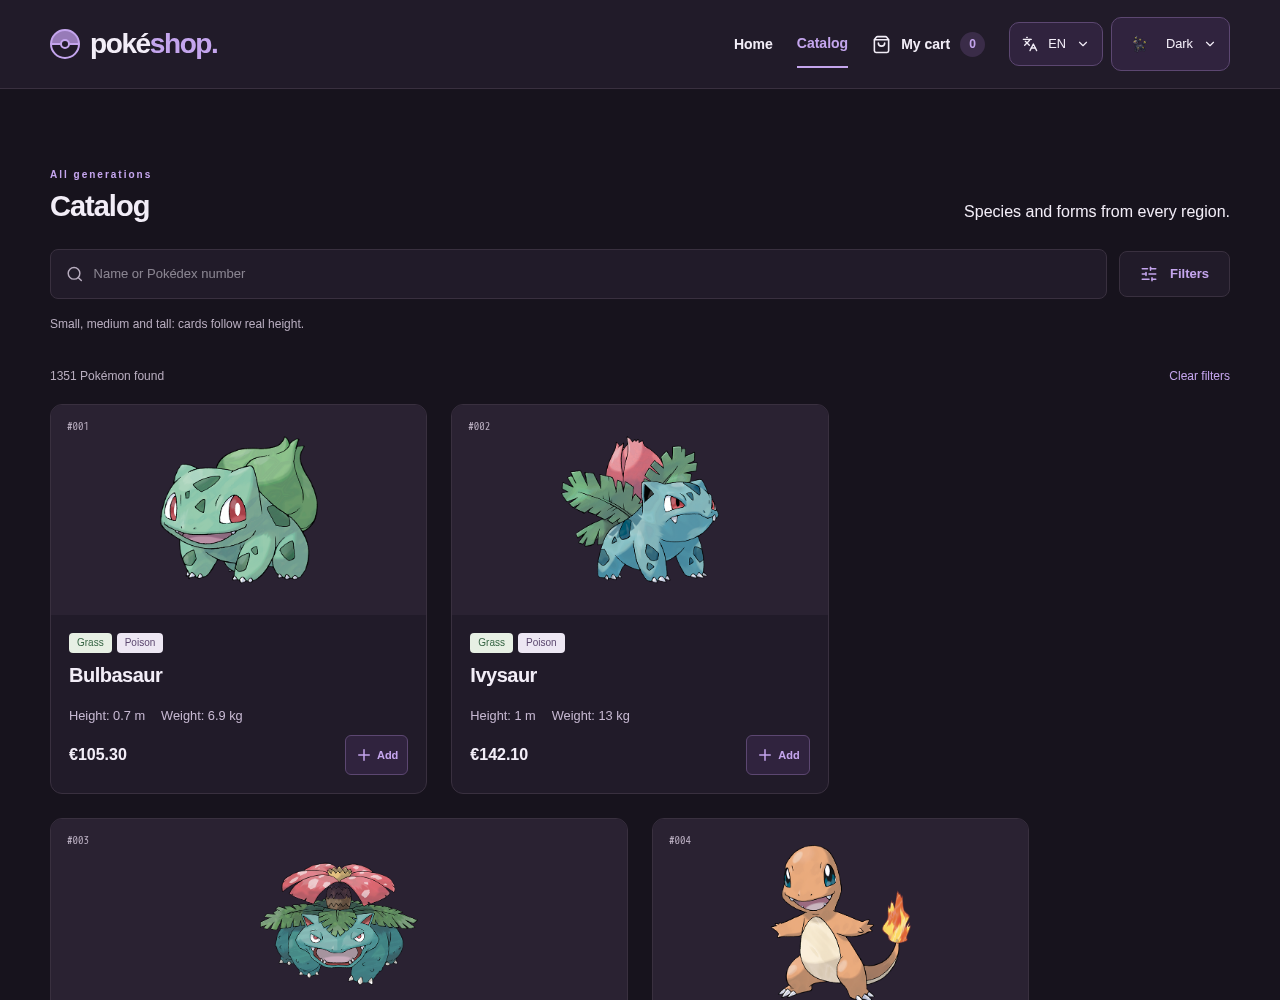
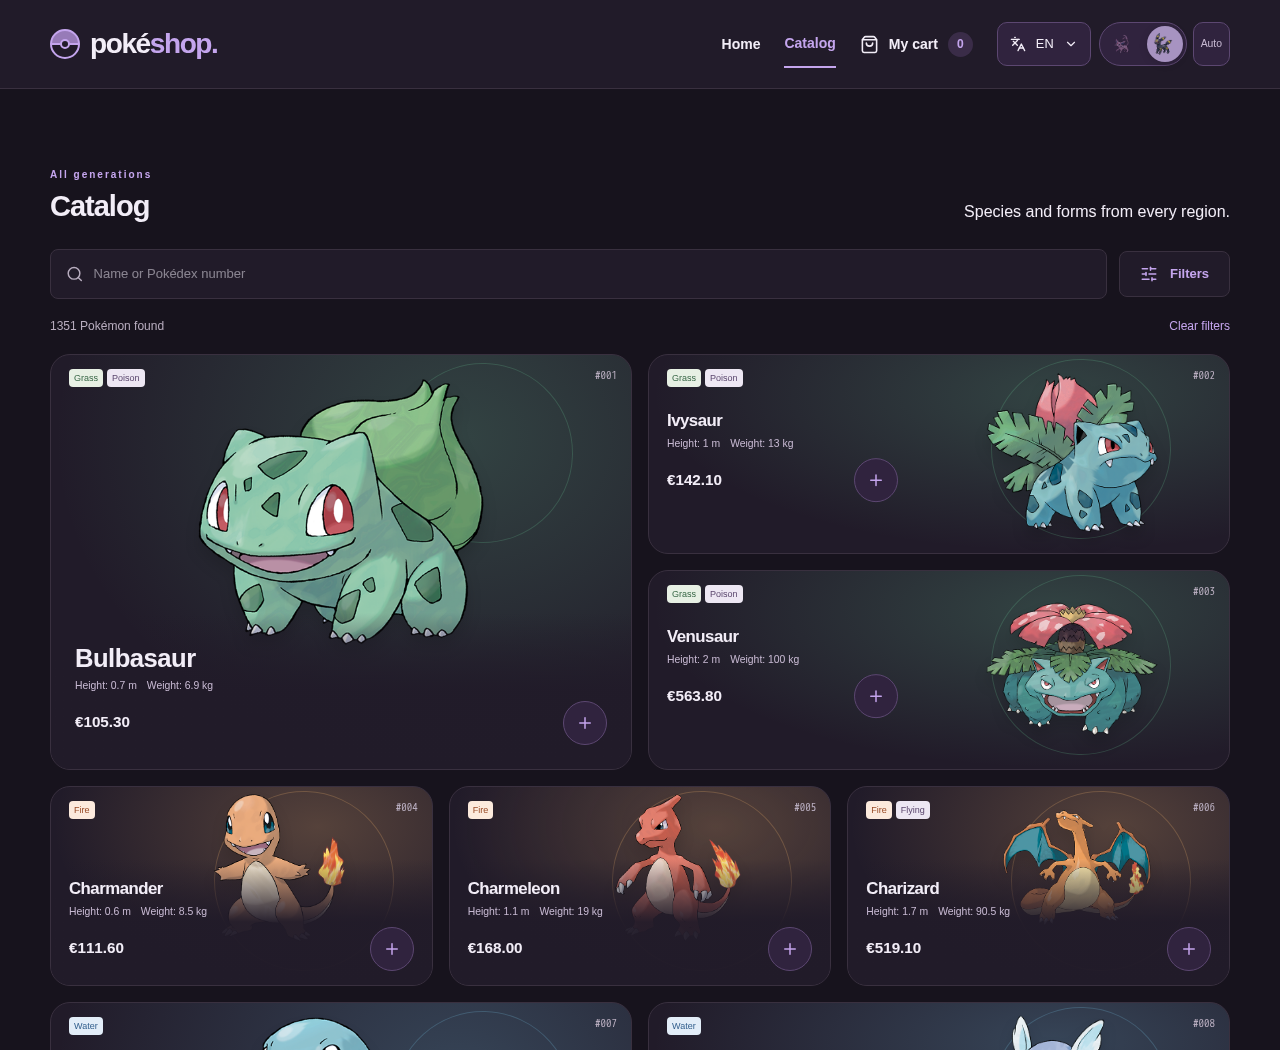
docs: refresh storefront screenshots and interaction guide

diff --git a/README.es.md b/README.es.md
@@ -4,7 +4,7 @@
 
 ![Despliegue: demo local](https://img.shields.io/badge/despliegue-demo_local-71549a)
 
-Una tienda Pokémon de demostración con portada promocional con Pikachu animado en 2D, catálogo completo importado y carrito persistente. Creada con Vue 3, TypeScript y FastAPI. Precios y stock ficticios; las cuentas, pagos y pedidos reales quedan fuera de esta fase.
+Una tienda Pokémon de demostración con portada eléctrica protagonizada por Pikachu, catálogo completo importado y carrito persistente. Creada con Vue 3, TypeScript y FastAPI. Precios y stock ficticios; las cuentas, pagos y pedidos reales quedan fuera de esta fase.
 
 [Demo local](http://localhost:5173) · [Documentación de la API](http://localhost:8000/docs)
 
@@ -14,14 +14,14 @@ Una tienda Pokémon de demostración con portada promocional con Pikachu animado
 
 ## Funcionalidades
 
-- `/`: escena asimétrica de Pikachu, control de pausa y accesos por región. La animación se detiene fuera de pantalla, con la pestaña oculta y con movimiento reducido.
-- `/catalogo`: los 24 resultados usan un bento CSS Grid por altura (≤1 m: 2×1; ≤2 m: 3×1; >2 m: 3×2 sobre seis columnas en escritorio), sin reordenar. Dos columnas en tablet y una en móvil. El panel de filtros contiene tipo, región de origen, generación, forma y orden; Aplicar actualiza la URL y reinicia la página, Cancelar descarta los cambios.
-- `/pokemon/:id`: biología localizada, dimensiones, origen y habilidades. Las estadísticas se abren con hover, foco de teclado o toque; un clic fija el popover y Escape, pulsación fuera o Cerrar lo cierran.
-- `/carrito`: IDs y cantidades sobreviven a las recargas. Las entidades son independientes de las páginas del catálogo; los errores de red no borran la selección ni se interpretan como falta de stock.
+- `/`: escena eléctrica violeta/amarilla con Pikachu, pausa y accesos por región. La apertura de Poké Ball dura 1,2 segundos, se puede saltar y aparece una vez por sesión de pestaña. El movimiento reducido omite entrada y animaciones decorativas; el fondo se detiene fuera de pantalla y con la pestaña oculta.
+- `/catalogo`: 24 resultados ordenados en bloques compactos de seis: una tarjeta 3×2, dos 3×1 y tres 2×1, sobre seis columnas de escritorio con filas de 200 px y separación de 16 px. Los bloques incompletos forman filas equilibradas. Dos columnas en tablet y una en móvil. El tamaño es editorial, independiente de la altura; las dimensiones siguen visibles. Los filtros provisionales conservan estado en URL y Aplicar/Cancelar.
+- `/pokemon/:id`: biología localizada, dimensiones y origen. Las estadísticas se abren desde la esquina superior derecha de la ilustración con hover, foco o toque; un clic fija el popover y Escape, pulsación fuera o Cerrar lo cierran. Las habilidades permanecen en la API, pero se omiten en la vista.
+- `/carrito`: seis productos distintos por página y totales calculados sobre toda la cesta. Eliminar el último producto de una página ajusta a la última válida; cambiar cantidades mantiene la página. IDs y cantidades persisten, independientemente de la paginación del catálogo y los fallos de red.
 - Cuatro recomendaciones disponibles priorizan tipos compartidos, después generación y proximidad de precio. No repiten especie y excluyen las especies seleccionadas. El carrito vacío muestra destacados.
 - Español/inglés con Vue I18n, selectores accesibles de Reka UI, iconos Lucide, temas claro/oscuro/sistema y revelación circular de 700 ms para cambios manuales. El movimiento reducido y los cambios automáticos del sistema omiten la animación; los navegadores sin soporte transicionan los colores durante 300 ms, sin atenuar la página.
 
-Chansey acompaña el resumen y el carrito vacío. Los avisos de acciones duran tres segundos, se pausan con hover/foco y se reinician con cada acción. Los errores de almacenamiento permanecen visibles. Espeon y Umbreon identifican los temas claro y oscuro.
+Chansey aparece con 200–240 px junto a un resumen con aspecto de ticket; en pantallas estrechas pasa encima y también acompaña el estado vacío. Los avisos de tres segundos usan un disco que se vacía, se pausan con hover/foco y se reinician con cada acción. Los errores de almacenamiento permanecen visibles. Un switch animado Espeon/Umbreon selecciona claro/oscuro, con un botón Auto separado para seguir el sistema. Se conserva la revelación de página de 700 ms.
 
 ## Ejecución local
 
@@ -159,7 +159,7 @@ docker compose logs -f
 docker compose down
 ```
 
-Verificado el 07/09/2026: 21 pruebas de backend y 18 pruebas unitarias de frontend; tipos, ESLint, build de producción y Ruff. La suite completa de Chromium pasó contra el preview de producción; también se comprobaron las interacciones principales en desarrollo. La cobertura de navegador contiene cinco regresiones de interacción y 20 escenarios responsive, cada uno recorriendo las cuatro rutas a 320/375/414/768/1280 px en español/inglés y claro/oscuro (80 capturas). Se comprueban la carga correcta y los desbordamientos horizontales; las capturas se generan en `frontend/test-results/`, ignorado en Git, para revisión visual. Se cubren selección con teclado, Escape y recuperación del foco, carrito tras paginación/recarga/error de red y persistencia de preferencias. También se ejecutaron repetición, interrupción controlada y recuperación de la importación.
+Verificado el 07/09/2026: 21 pruebas de backend y 18 pruebas unitarias de frontend; tipos, ESLint, build de producción y Ruff. La suite completa de Chromium pasó contra el preview de producción; también se comprobaron las interacciones principales en desarrollo. La cobertura de navegador contiene 13 regresiones de interacción y 20 escenarios responsive, cada uno recorriendo las cuatro rutas a 320/375/414/768/1280 px en español/inglés y claro/oscuro (80 capturas, incluyendo un carrito con siete productos). Se comprueban la carga correcta y los desbordamientos horizontales; las capturas se generan en `frontend/test-results/`, ignorado en Git, para revisión visual. Se cubren selección con teclado, Escape y recuperación del foco, carrito tras paginación/recarga/error de red y persistencia de preferencias. También se ejecutaron repetición, interrupción controlada y recuperación de la importación.
 
 Las pruebas de integración requieren la migración y sincronización inicial. Las de navegador utilizan Chromium y el servidor de desarrollo encendido; configura `PLAYWRIGHT_BASE_URL` para otro servidor. No se han verificado otros motores de navegador. `pnpm build` también ejecuta tipos y empaquetado secuencialmente.
 

diff --git a/README.md b/README.md
@@ -4,7 +4,7 @@
 
 ![Deployment: local demo](https://img.shields.io/badge/deployment-local_demo-71549a)
 
-A Pokémon shop demo with a 2D animated Pikachu home, a complete imported catalog, and a persistent cart. Built with Vue 3, TypeScript and FastAPI. Prices and stock are fictional; accounts, payments and real orders are outside this phase.
+A Pokémon shop demo with an electric Pikachu home, a complete imported catalog, and a persistent cart. Built with Vue 3, TypeScript and FastAPI. Prices and stock are fictional; accounts, payments and real orders are outside this phase.
 
 [Local demo](http://localhost:5173) · [API documentation](http://localhost:8000/docs)
 
@@ -14,14 +14,14 @@ A Pokémon shop demo with a 2D animated Pikachu home, a complete imported catalo
 
 ## Highlights
 
-- `/`: an asymmetric Pikachu scene, pause control and region shortcuts. Animation stops offscreen, in hidden tabs and with reduced motion.
-- `/catalogo`: all 24 results use a height-based CSS Grid bento (≤1 m: 2×1; ≤2 m: 3×1; >2 m: 3×2 on six desktop columns), retaining sorted order. Two columns on tablet, one on mobile. A draft filter drawer contains type, origin region, generation, form and ordering; Apply updates the URL and resets pagination, Cancel discards edits.
-- `/pokemon/:id`: localized biology, dimensions, origin and abilities. Base statistics open on hover/keyboard focus or tap; clicking pins the popover, Escape/outside/close dismiss it.
-- `/carrito`: IDs and quantities persist across reloads. Entity storage is independent from catalog pages; failed requests never erase the selection or imply unavailable stock.
+- `/`: an electric violet/yellow Pikachu scene with pause control and region shortcuts. A skippable 1.2-second Poké Ball opening runs once per tab session. Reduced motion skips the intro and decorative animation; the background stops offscreen and in hidden tabs.
+- `/catalogo`: 24 ordered results in compact blocks of six: one 3×2 card, two 3×1 cards and three 2×1 cards, on six desktop columns with 200 px rows and 16 px gaps. Partial blocks fill balanced rows. Tablet uses two columns and mobile one. Size is editorial, independent of height; dimensions remain visible. Draft filters retain URL state and explicit Apply/Cancel.
+- `/pokemon/:id`: localized biology, dimensions and origin. Statistics open from the top-right corner of the illustration on hover, keyboard focus or tap; click pins the popover and Escape/outside/close dismiss it. Abilities remain in the API but are omitted from the view.
+- `/carrito`: six distinct products per page, with totals calculated over the complete cart. Removing the final item on a page selects the last valid page; quantity changes retain the page. IDs and quantities persist, independently of catalog pagination and network failures.
 - Four available recommendations prioritize shared types, then generation, then price proximity. Species are unique and species already selected are excluded. An empty cart shows featured Pokémon.
 - Spanish/English through Vue I18n, accessible Reka UI selects, Lucide icons, light/dark/system themes, and a 700 ms circular manual theme transition. Reduced motion and automatic system changes skip animation; unsupported browsers transition colors for 300 ms without fading the page.
 
-Chansey accompanies the cart summary and empty state. Action notices expire after three seconds, pause on hover/focus and restart with each action. Storage errors remain visible. Espeon and Umbreon identify the light and dark themes.
+Chansey appears at 200–240 px beside a receipt-style summary, moving above it on narrow screens, and accompanies the empty state. Three-second notices use a disappearing pie indicator, pause on hover/focus and restart with each action. Storage errors remain visible. An animated Espeon/Umbreon switch selects light/dark, with a separate Auto button for system preference. The existing 700 ms page reveal is preserved.
 
 ## Run locally
 
@@ -159,7 +159,7 @@ docker compose logs -f
 docker compose down
 ```
 
-Verified on 2026-09-07: 21 backend tests and 18 frontend unit tests; type checks, ESLint, production build and Ruff. The full Chromium suite passed against the production preview; core interactions were also checked against the development server. Browser coverage comprises five interaction regressions and 20 responsive scenarios, each visiting all four routes at 320/375/414/768/1280 px in Spanish/English and light/dark (80 captures). The suite checks successful loading and horizontal overflow; screenshots are generated under the ignored `frontend/test-results/` directory for visual review. Keyboard selection, Escape/focus restoration, cart paging/reload/network recovery and preference persistence are covered. Import repeat, controlled interruption and successful recovery were also exercised.
+Verified on 2026-09-07: 21 backend tests and 18 frontend unit tests; type checks, ESLint, production build and Ruff. The full Chromium suite passed against the production preview; core interactions were also checked against the development server. Browser coverage comprises 13 interaction regressions and 20 responsive scenarios, each visiting all four routes at 320/375/414/768/1280 px in Spanish/English and light/dark (80 captures, including a populated seven-product cart). The suite checks successful loading and horizontal overflow; screenshots are generated under the ignored `frontend/test-results/` directory for visual review. Keyboard selection, Escape/focus restoration, cart paging/reload/network recovery and preference persistence are covered. Import repeat, controlled interruption and successful recovery were also exercised.
 
 Integration tests require the migration and initial sync above. Browser tests use Chromium and the running dev server; set `PLAYWRIGHT_BASE_URL` for an external server. Other browser engines are not verified. `pnpm build` also runs type checking and bundling sequentially.
 

diff --git a/frontend/README.md b/frontend/README.md
@@ -27,4 +27,4 @@ pnpm exec playwright show-report
 
 Tests use one headless Chromium worker. Set `PLAYWRIGHT_BASE_URL` when the running frontend is not at `http://localhost:5173`. The suite covers interactions and four routes across five widths, two themes and two languages. Screenshots and traces are ignored under `test-results/`; the HTML report is also ignored. Other browser engines have not been verified.
 
-The homepage uses an animated 2D Pikachu scene. The catalog uses CSS Grid by height, with draft filters in a Reka dialog; stats use a hover/focus/tap popover. Theme changes reveal over 700 ms (300 ms color fallback), while action notices expire after three seconds with hover/focus pause. Reduced motion disables decorative animation. No database credentials belong in Vite variables.
+The homepage has a violet/yellow electric scene and a skippable Poké Ball intro once per tab session. Catalog cards follow compact six-item editorial blocks, independent of biological height; partial blocks preserve order. The cart paginates six products while keeping global totals, with a Chansey receipt scene. Statistics live inside the detail illustration. The animated Espeon/Umbreon switch has a separate Auto button; page transitions remain 700 ms. Three-second pie countdowns pause on hover/focus. Reduced motion skips decorative animation. No database credentials belong in Vite variables.
